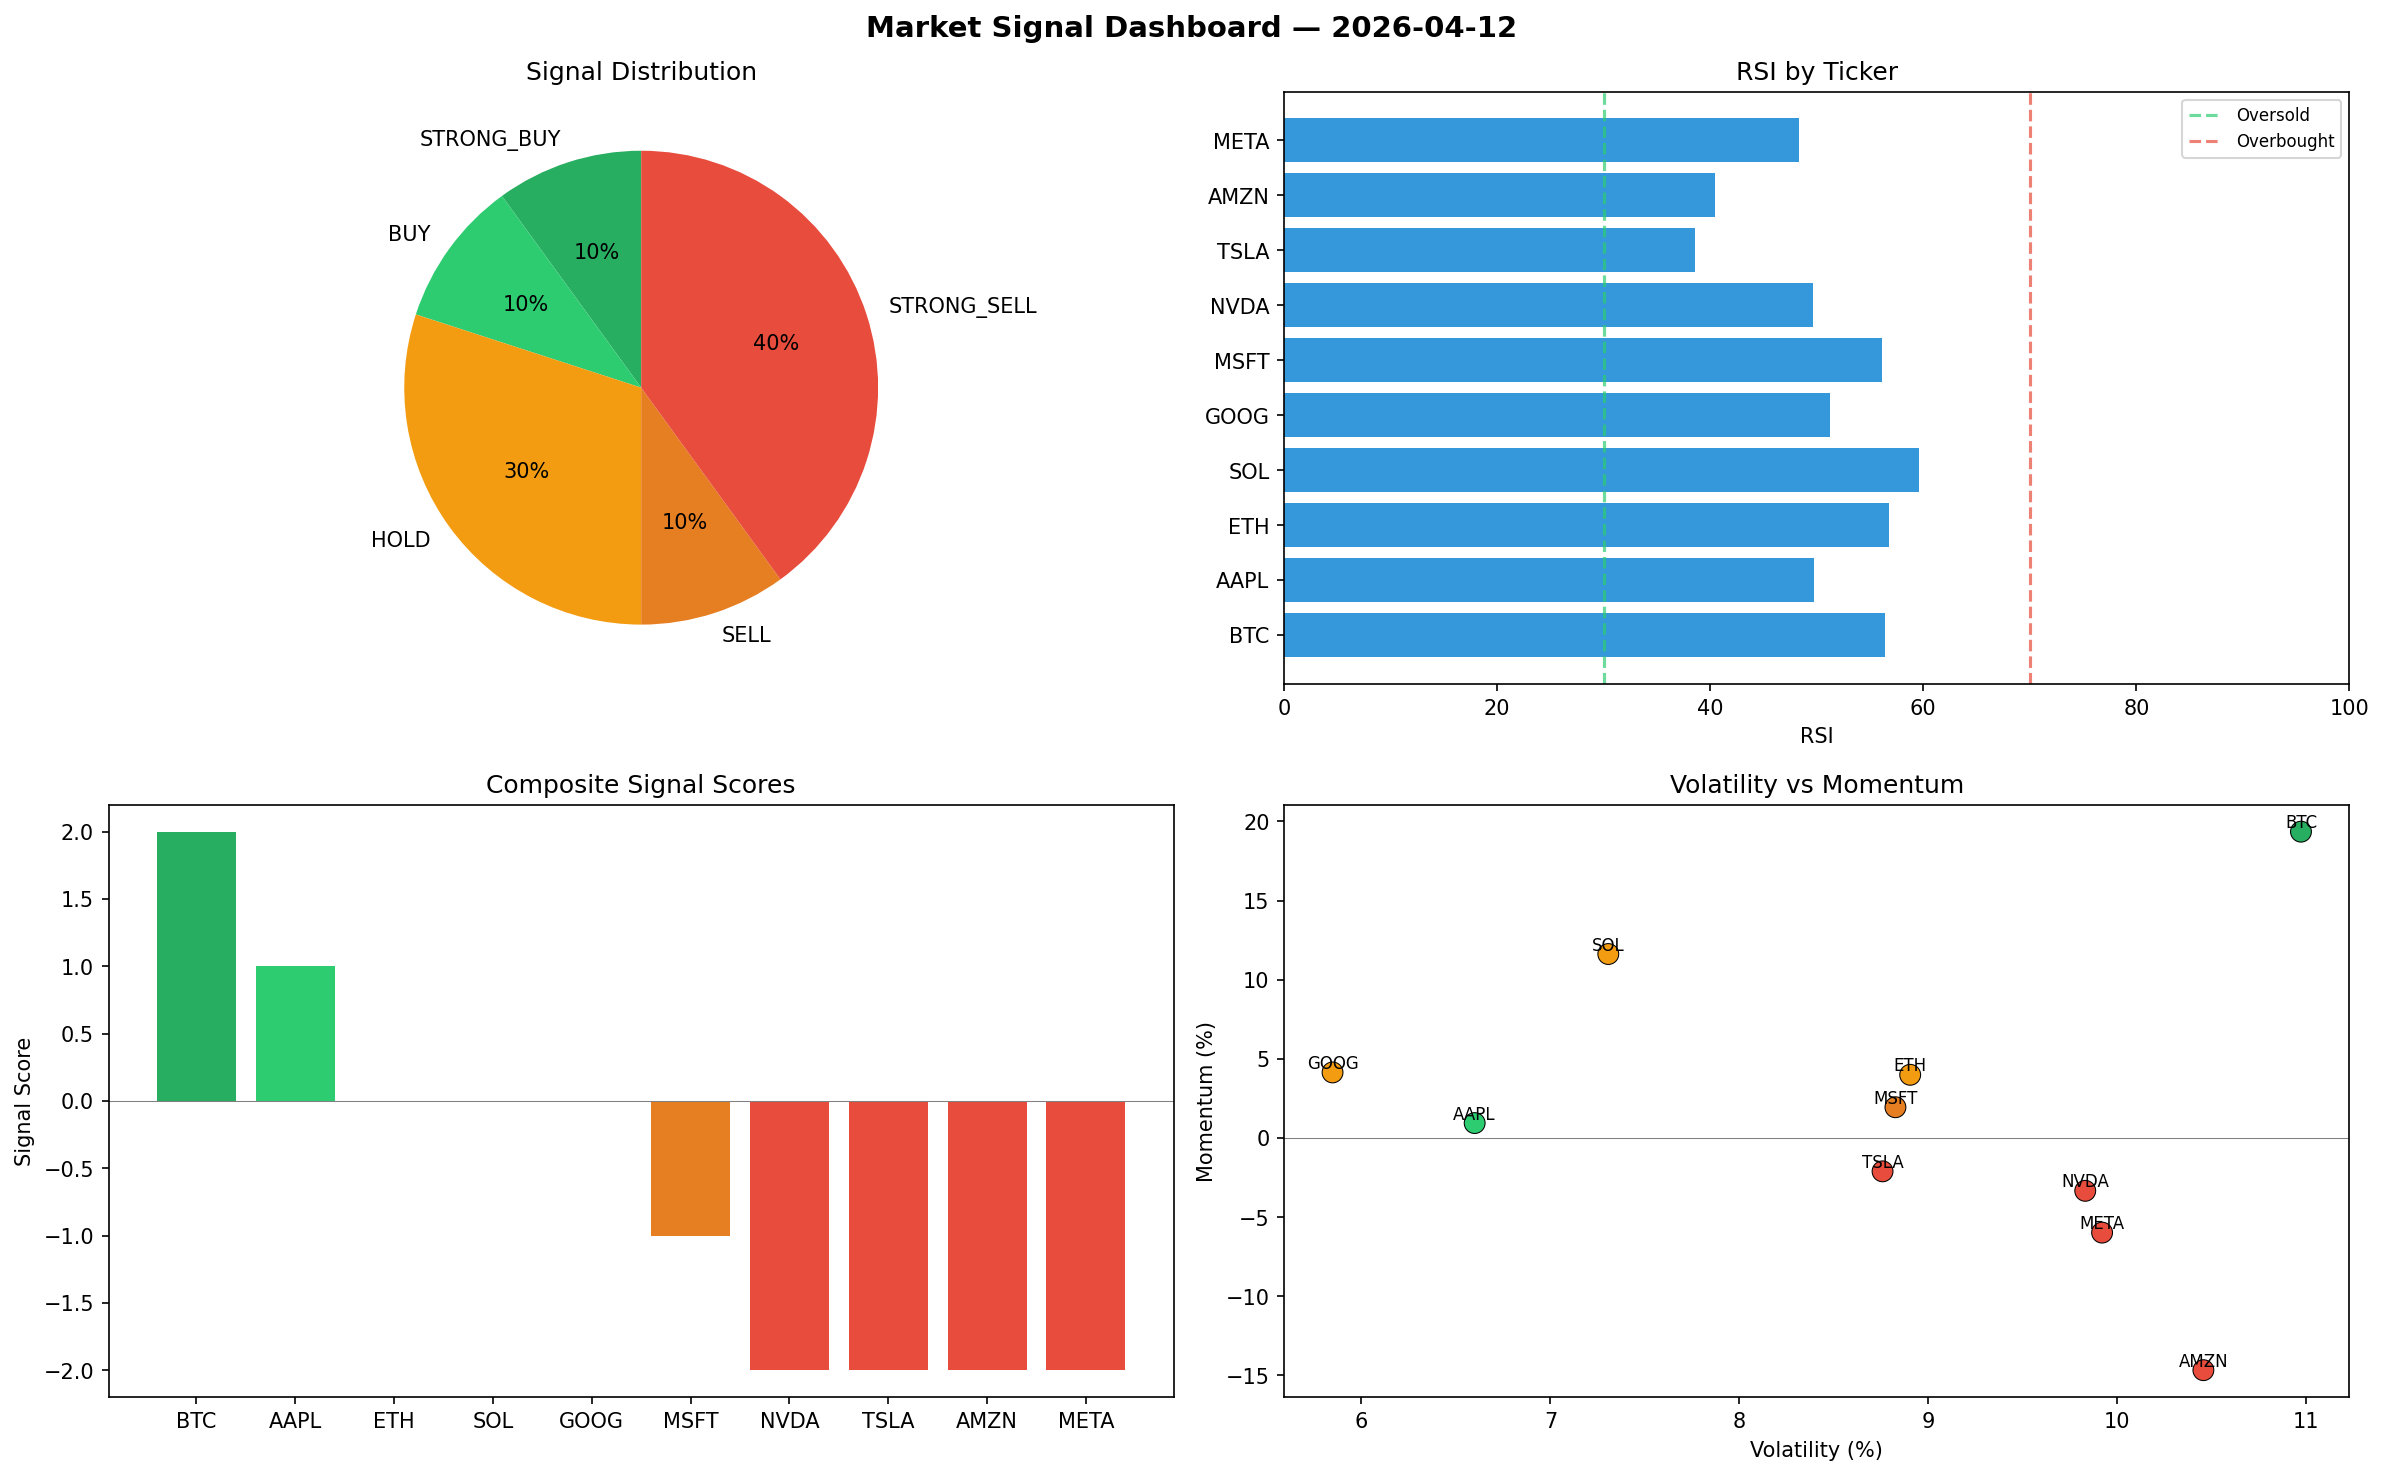
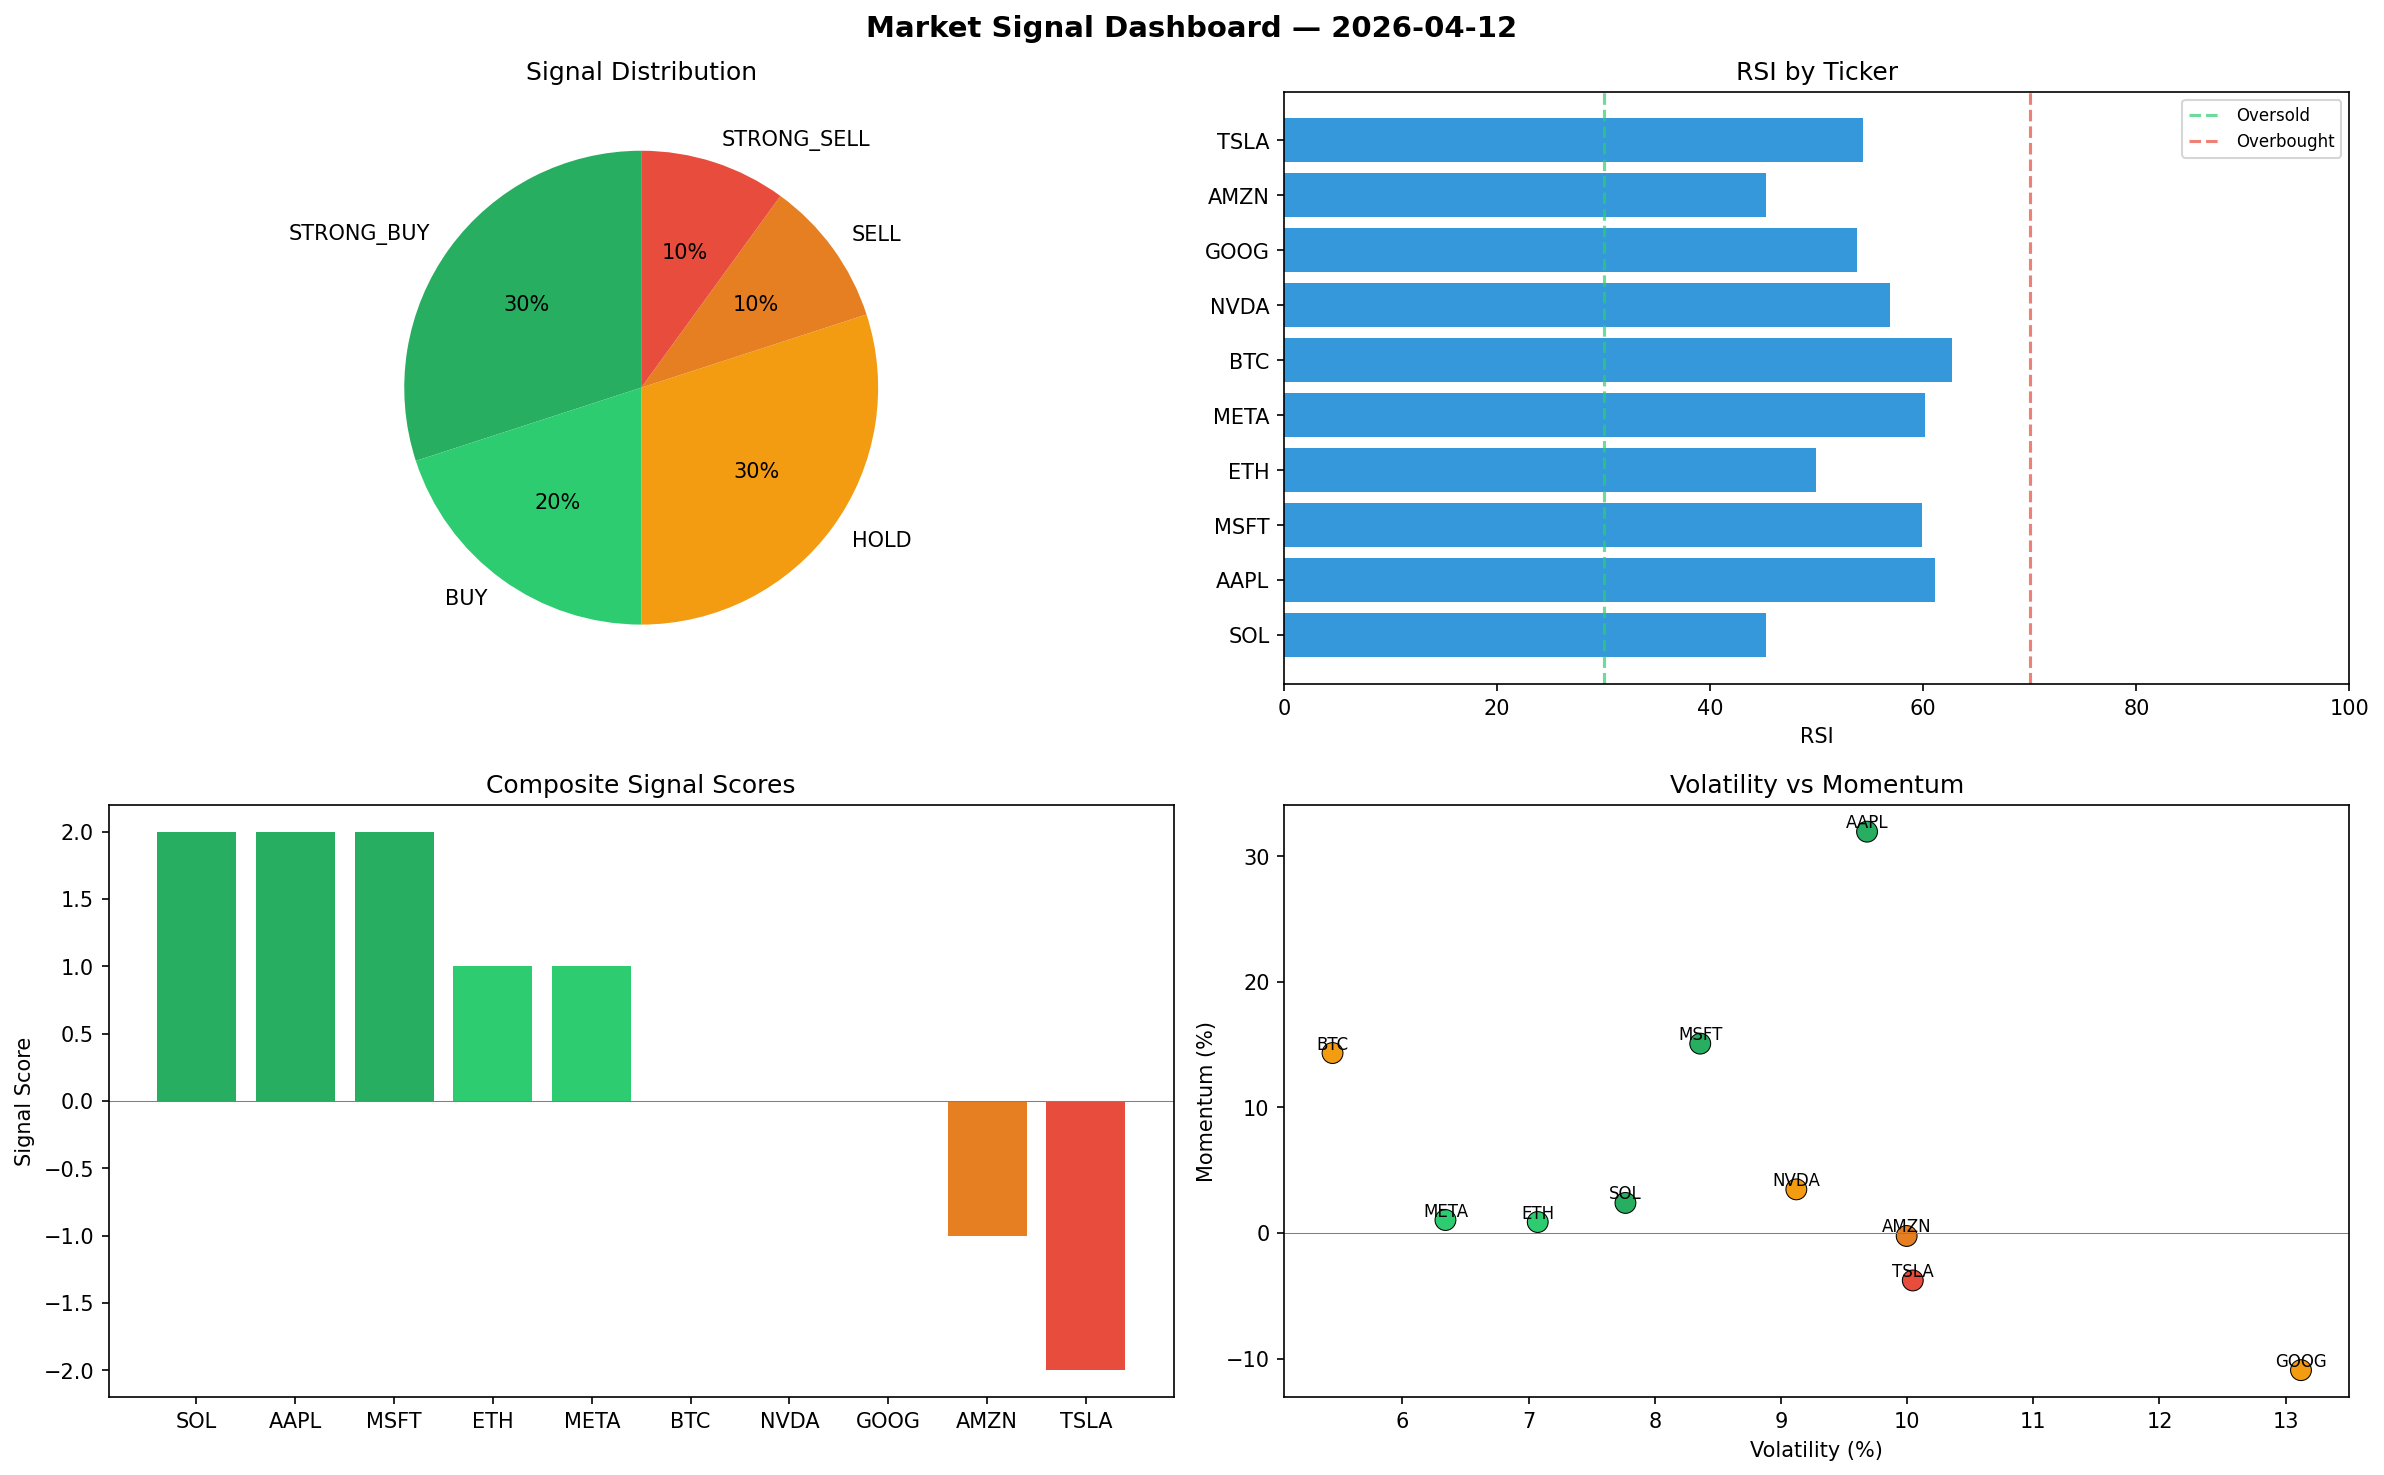
automated-bots: market signals 2026-04-12T09:09

diff --git a/logs/2026-04-12.md b/logs/2026-04-12.md
@@ -1,6 +1,6 @@
 # Market Signal Report — 2026-04-12
 
-**Run ID:** `7fac6d8e66` | **Buy:** 2 | **Sell:** 5 | **Hold:** 3
+**Run ID:** `68137238c7` | **Buy:** 5 | **Sell:** 2 | **Hold:** 3
 
 ![Dashboard](2026-04-12_dashboard.png)
 
@@ -8,28 +8,28 @@
 
 | Ticker | Price | Signal | Score | RSI | Momentum | Confidence |
 |--------|-------|--------|-------|-----|----------|------------|
-| BTC | $56.26 | **STRONG_BUY** | 2 | 56.41 | 0.1935 | 0.5 |
-| AAPL | $4404.93 | **BUY** | 1 | 49.7 | 0.0094 | 0.25 |
-| ETH | $3616.67 | **HOLD** | 0 | 56.8 | 0.0399 | 0.0 |
-| SOL | $4653.51 | **HOLD** | 0 | 59.58 | 0.1162 | 0.0 |
-| GOOG | $4658.66 | **HOLD** | 0 | 51.27 | 0.0414 | 0.0 |
-| MSFT | $2546.87 | **SELL** | -1 | 56.17 | 0.0194 | 0.25 |
-| NVDA | $529.55 | **STRONG_SELL** | -2 | 49.6 | -0.0334 | 0.5 |
-| TSLA | $1296.0 | **STRONG_SELL** | -2 | 38.59 | -0.0211 | 0.5 |
-| AMZN | $3740.52 | **STRONG_SELL** | -2 | 40.45 | -0.1467 | 0.5 |
-| META | $2207.24 | **STRONG_SELL** | -2 | 48.35 | -0.0598 | 0.5 |
+| SOL | $612.51 | **STRONG_BUY** | 2 | 45.25 | 0.0239 | 0.5 |
+| AAPL | $967.62 | **STRONG_BUY** | 2 | 61.11 | 0.3194 | 0.5 |
+| MSFT | $1498.56 | **STRONG_BUY** | 2 | 59.88 | 0.1507 | 0.5 |
+| ETH | $1690.65 | **BUY** | 1 | 49.9 | 0.0087 | 0.25 |
+| META | $1592.25 | **BUY** | 1 | 60.17 | 0.0103 | 0.25 |
+| BTC | $3654.55 | **HOLD** | 0 | 62.66 | 0.1432 | 0.0 |
+| NVDA | $3376.02 | **HOLD** | 0 | 56.84 | 0.0347 | 0.0 |
+| GOOG | $2533.71 | **HOLD** | 0 | 53.77 | -0.1092 | 0.0 |
+| AMZN | $1515.23 | **SELL** | -1 | 45.21 | -0.0024 | 0.25 |
+| TSLA | $2854.74 | **STRONG_SELL** | -2 | 54.32 | -0.0378 | 0.5 |
 
 ## Delta vs Yesterday
 
 | Ticker | Today | Yesterday | Price Change | Signal Changed |
 |--------|-------|-----------|-------------|----------------|
-| BTC | STRONG_BUY | STRONG_SELL | 📈 138.29% | ⚠ YES |
-| AAPL | BUY | STRONG_BUY | 📈 64.81% | ⚠ YES |
-| ETH | HOLD | BUY | 📉 -10.38% | ⚠ YES |
-| SOL | HOLD | SELL | 📈 234.51% | ⚠ YES |
-| GOOG | HOLD | SELL | 📈 595.46% | ⚠ YES |
-| MSFT | SELL | HOLD | 📈 14.74% | ⚠ YES |
-| NVDA | STRONG_SELL | HOLD | 📉 -78.65% | ⚠ YES |
-| TSLA | STRONG_SELL | HOLD | 📉 -72.43% | ⚠ YES |
-| AMZN | STRONG_SELL | HOLD | 📈 137.52% | ⚠ YES |
-| META | STRONG_SELL | SELL | 📉 -12.74% | ⚠ YES |
+| SOL | STRONG_BUY | SELL | 📉 -55.97% | ⚠ YES |
+| AAPL | STRONG_BUY | STRONG_BUY | 📉 -63.8% | — |
+| MSFT | STRONG_BUY | HOLD | 📉 -32.49% | ⚠ YES |
+| ETH | BUY | BUY | 📉 -58.1% | — |
+| META | BUY | SELL | 📉 -37.05% | ⚠ YES |
+| BTC | HOLD | STRONG_SELL | 📈 15378.82% | ⚠ YES |
+| NVDA | HOLD | HOLD | 📈 36.12% | — |
+| GOOG | HOLD | SELL | 📈 278.24% | ⚠ YES |
+| AMZN | SELL | HOLD | 📉 -3.78% | ⚠ YES |
+| TSLA | STRONG_SELL | HOLD | 📉 -39.28% | ⚠ YES |
